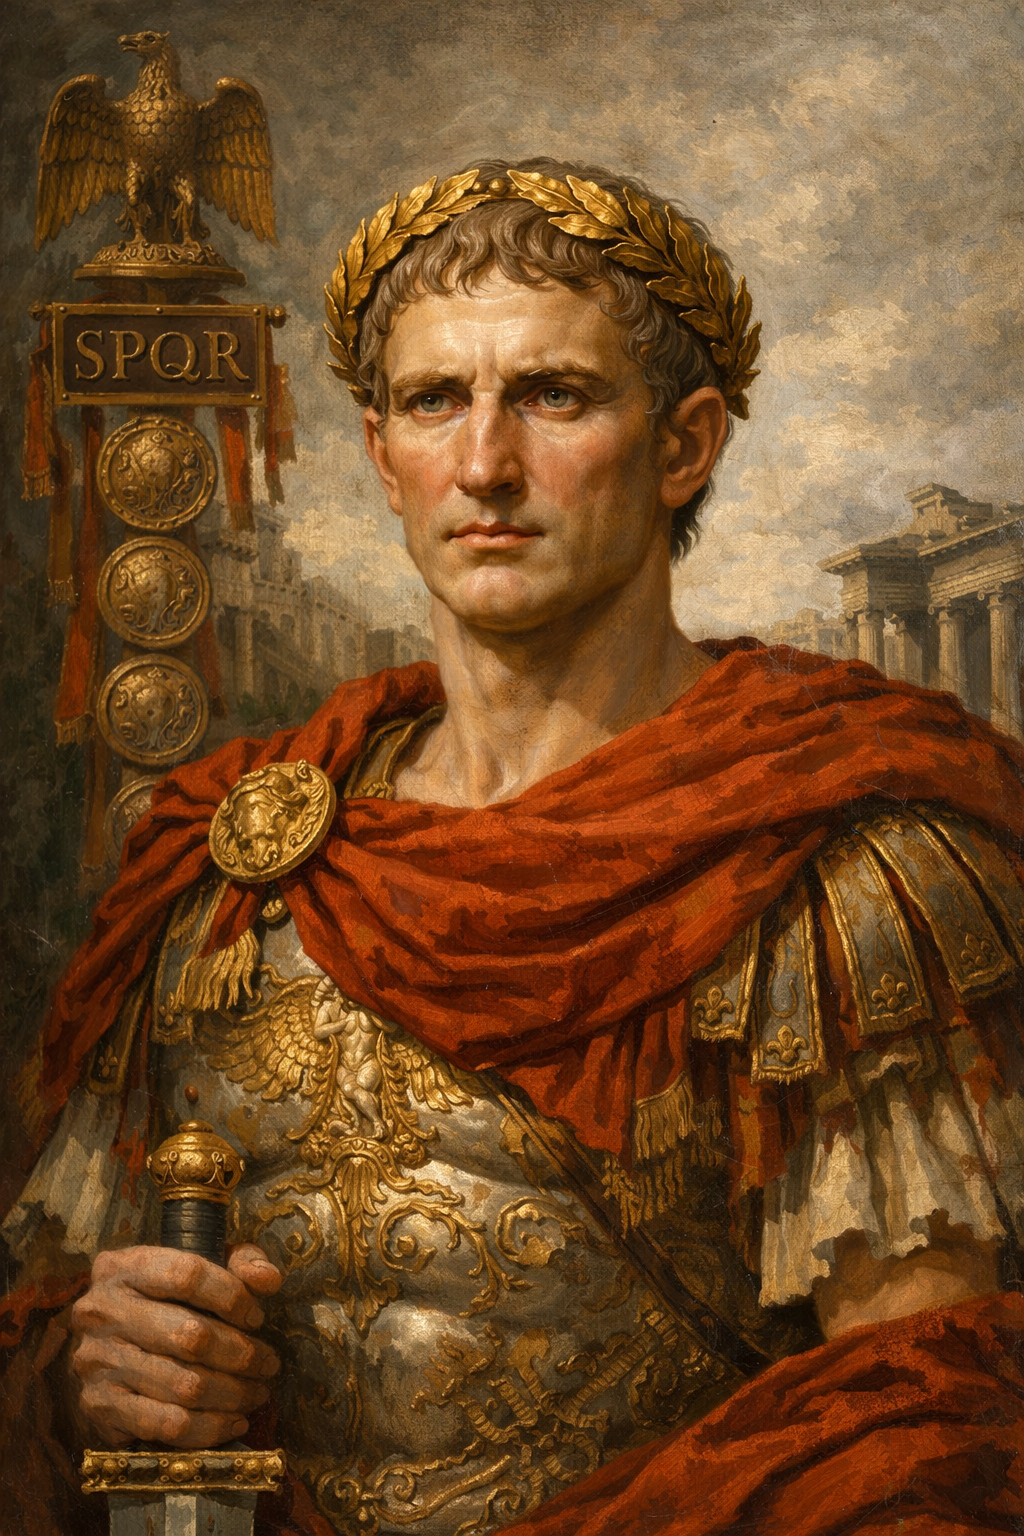
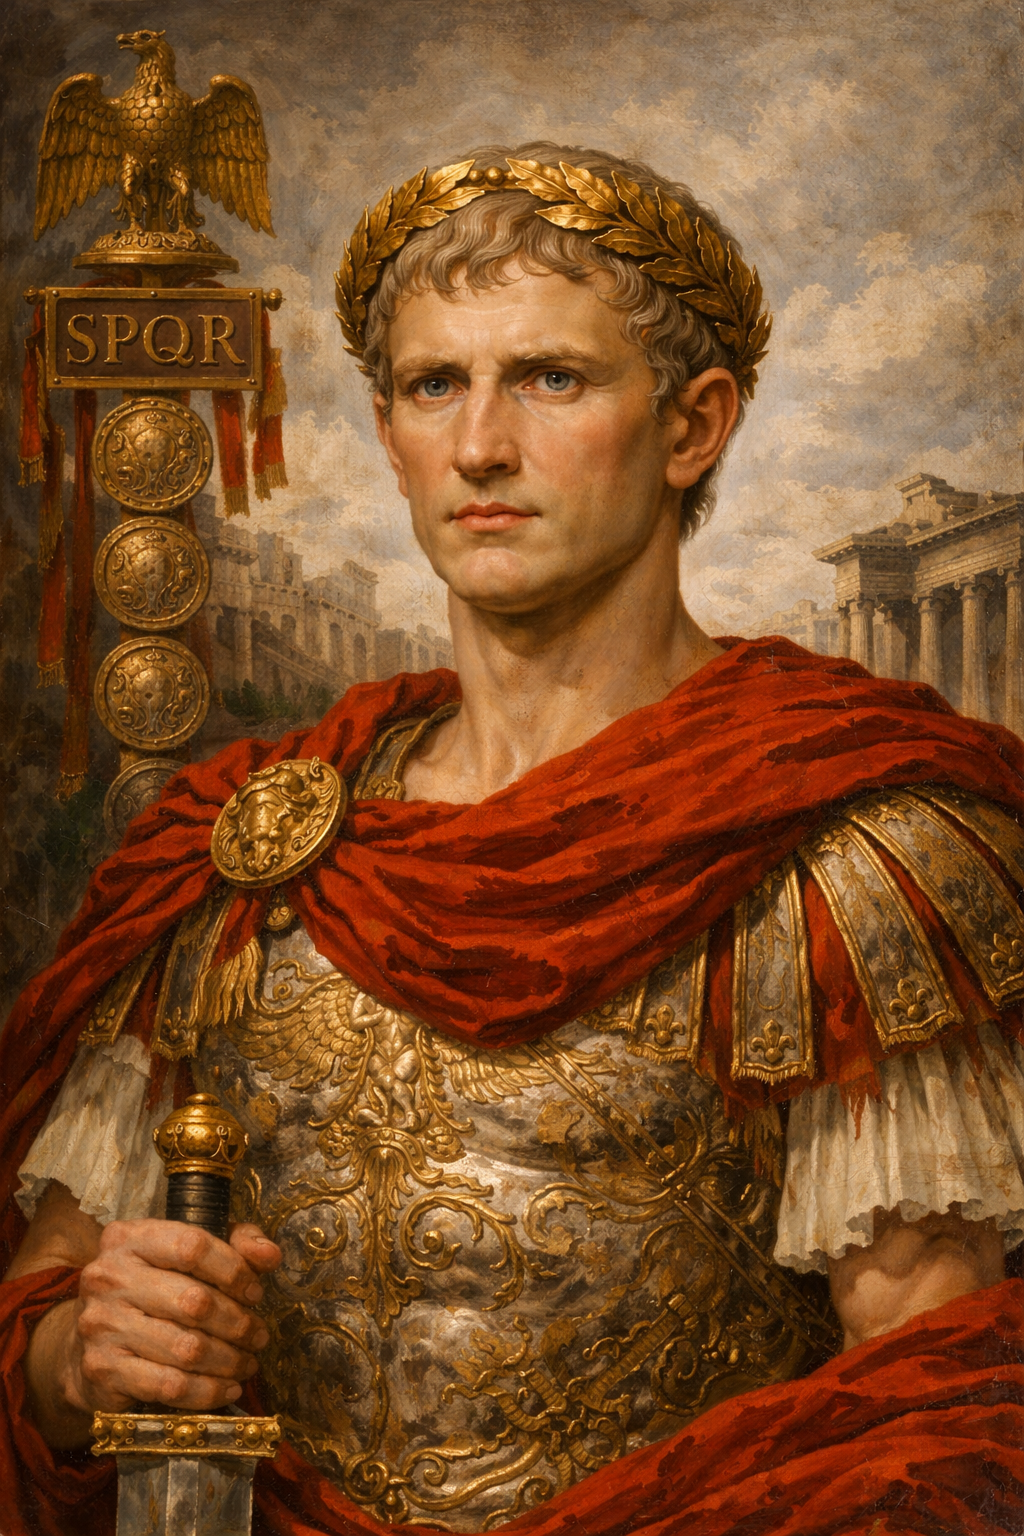
modifiche finali
divisione dei pulsanti carica partita SER e CSV, sostituzione di alcune immagini perchè troppo uguali

diff --git a/Progetto_GDR-main/Progetto_GDR-main/ImperiumSurvival/src/imperiumsurvival/SchermataIniziale.java b/Progetto_GDR-main/Progetto_GDR-main/ImperiumSurvival/src/imperiumsurvival/SchermataIniziale.java
@@ -39,13 +39,17 @@ public class SchermataIniziale extends javax.swing.JFrame {
         
         
         
-        btn_caricaPartita.setOpaque(false);
-        btn_caricaPartita.setContentAreaFilled(false);
-        btn_caricaPartita.setBorderPainted(false);
+        btn_caricaPartitaSER.setOpaque(false);
+        btn_caricaPartitaSER.setContentAreaFilled(false);
+        btn_caricaPartitaSER.setBorderPainted(false);
         
         btn_creaPartita.setOpaque(false);
         btn_creaPartita.setContentAreaFilled(false);
         btn_creaPartita.setBorderPainted(false);
+        
+        btn_caricaPartitaCSV.setOpaque(false);
+        btn_caricaPartitaCSV.setContentAreaFilled(false);
+        btn_caricaPartitaCSV.setBorderPainted(false);
     }
 
     /**
@@ -57,24 +61,27 @@ public class SchermataIniziale extends javax.swing.JFrame {
     // <editor-fold defaultstate="collapsed" desc="Generated Code">//GEN-BEGIN:initComponents
     private void initComponents() {
 
-        btn_caricaPartita = new javax.swing.JButton();
+        btn_caricaPartitaSER = new javax.swing.JButton();
         btn_creaPartita = new javax.swing.JButton();
+        btn_caricaPartitaCSV = new javax.swing.JButton();
         jLabel1 = new javax.swing.JLabel();
 
         setDefaultCloseOperation(javax.swing.WindowConstants.EXIT_ON_CLOSE);
         getContentPane().setLayout(null);
 
-        btn_caricaPartita.setFont(new java.awt.Font("Trajan Pro", 0, 24)); // NOI18N
-        btn_caricaPartita.setText("CARICA PARTITA");
-        btn_caricaPartita.addActionListener(new java.awt.event.ActionListener() {
+        btn_caricaPartitaSER.setFont(new java.awt.Font("Trajan Pro", 0, 24)); // NOI18N
+        btn_caricaPartitaSER.setForeground(new java.awt.Color(255, 255, 255));
+        btn_caricaPartitaSER.setText("CARICA PARTITA SER");
+        btn_caricaPartitaSER.addActionListener(new java.awt.event.ActionListener() {
             public void actionPerformed(java.awt.event.ActionEvent evt) {
-                btn_caricaPartitaActionPerformed(evt);
+                btn_caricaPartitaSERActionPerformed(evt);
             }
         });
-        getContentPane().add(btn_caricaPartita);
-        btn_caricaPartita.setBounds(440, 380, 260, 70);
+        getContentPane().add(btn_caricaPartitaSER);
+        btn_caricaPartitaSER.setBounds(410, 390, 320, 70);
 
         btn_creaPartita.setFont(new java.awt.Font("Trajan Pro", 0, 24)); // NOI18N
+        btn_creaPartita.setForeground(new java.awt.Color(255, 255, 255));
         btn_creaPartita.setText("NUOVA PARTITA");
         btn_creaPartita.addActionListener(new java.awt.event.ActionListener() {
             public void actionPerformed(java.awt.event.ActionEvent evt) {
@@ -82,7 +89,18 @@ public class SchermataIniziale extends javax.swing.JFrame {
             }
         });
         getContentPane().add(btn_creaPartita);
-        btn_creaPartita.setBounds(440, 290, 260, 70);
+        btn_creaPartita.setBounds(410, 290, 320, 70);
+
+        btn_caricaPartitaCSV.setFont(new java.awt.Font("Trajan Pro", 0, 24)); // NOI18N
+        btn_caricaPartitaCSV.setForeground(new java.awt.Color(255, 255, 255));
+        btn_caricaPartitaCSV.setText("CARICA PARTITA CSV");
+        btn_caricaPartitaCSV.addActionListener(new java.awt.event.ActionListener() {
+            public void actionPerformed(java.awt.event.ActionEvent evt) {
+                btn_caricaPartitaCSVActionPerformed(evt);
+            }
+        });
+        getContentPane().add(btn_caricaPartitaCSV);
+        btn_caricaPartitaCSV.setBounds(410, 490, 320, 70);
 
         jLabel1.setIcon(new javax.swing.ImageIcon(getClass().getResource("/imperiumsurvival/schermata_iniziale.png"))); // NOI18N
         getContentPane().add(jLabel1);
@@ -91,7 +109,7 @@ public class SchermataIniziale extends javax.swing.JFrame {
         pack();
     }// </editor-fold>//GEN-END:initComponents
 
-    private void btn_caricaPartitaActionPerformed(java.awt.event.ActionEvent evt) {//GEN-FIRST:event_btn_caricaPartitaActionPerformed
+    private void btn_caricaPartitaSERActionPerformed(java.awt.event.ActionEvent evt) {//GEN-FIRST:event_btn_caricaPartitaSERActionPerformed
        FileManager fm = new FileManager();
        GameManager caricato = fm.caricaPartitaSer("salvataggio_imperium");
        
@@ -106,7 +124,7 @@ public class SchermataIniziale extends javax.swing.JFrame {
        else{
            JOptionPane.showMessageDialog(this, "Nessun salvataggio trovato o file corrotto!", "Errore", javax.swing.JOptionPane.ERROR_MESSAGE);
        }
-    }//GEN-LAST:event_btn_caricaPartitaActionPerformed
+    }//GEN-LAST:event_btn_caricaPartitaSERActionPerformed
 
     private void btn_creaPartitaActionPerformed(java.awt.event.ActionEvent evt) {//GEN-FIRST:event_btn_creaPartitaActionPerformed
          this.dispose();
@@ -114,6 +132,23 @@ public class SchermataIniziale extends javax.swing.JFrame {
         ScegliPersonaggio sp = new ScegliPersonaggio();
         sp.setVisible(true);
     }//GEN-LAST:event_btn_creaPartitaActionPerformed
+
+    private void btn_caricaPartitaCSVActionPerformed(java.awt.event.ActionEvent evt) {//GEN-FIRST:event_btn_caricaPartitaCSVActionPerformed
+        FileManager fm = new FileManager();
+       GameManager caricato = fm.caricaPartitaCSV("salvataggio_imperium");
+       
+       if(caricato != null){
+           this.dispose();
+           CampoDaGioco cg = new CampoDaGioco();
+           cg.setGameManager(caricato);
+           cg.setVisible(true);
+           
+           JOptionPane.showMessageDialog(cg, "Bentornato, imperatore! Partita caricata.");
+       }
+       else{
+           JOptionPane.showMessageDialog(this, "Nessun salvataggio trovato o file corrotto!", "Errore", javax.swing.JOptionPane.ERROR_MESSAGE);
+       }
+    }//GEN-LAST:event_btn_caricaPartitaCSVActionPerformed
 
     /**
      * @param args the command line arguments
@@ -141,7 +176,8 @@ public class SchermataIniziale extends javax.swing.JFrame {
     }
 
     // Variables declaration - do not modify//GEN-BEGIN:variables
-    private javax.swing.JButton btn_caricaPartita;
+    private javax.swing.JButton btn_caricaPartitaCSV;
+    private javax.swing.JButton btn_caricaPartitaSER;
     private javax.swing.JButton btn_creaPartita;
     private javax.swing.JLabel jLabel1;
     // End of variables declaration//GEN-END:variables

diff --git a/Progetto_GDR-main/Progetto_GDR-main/ImperiumSurvival/src/imperiumsurvival/FileManager.java b/Progetto_GDR-main/Progetto_GDR-main/ImperiumSurvival/src/imperiumsurvival/FileManager.java
@@ -54,9 +54,9 @@ public class FileManager {
             System.out.println("Errore salvataggio CSV");
         }
     }
-    public Imperatore caricaPartitaCSV(String nomeFile) {
+    public GameManager caricaPartitaCSV(String nomeFile) {
         try (BufferedReader br = new BufferedReader(new FileReader(nomeFile + ".csv"))) {
-            br.readLine();
+            br.readLine(); // Salta l'intestazione
             String riga = br.readLine();
 
             if (riga != null) {
@@ -66,36 +66,36 @@ public class FileManager {
                 int malcontento = Integer.parseInt(dati[2]);
                 int dissenso = Integer.parseInt(dati[3]);
                 int protezione = Integer.parseInt(dati[4]);
-                int turno = Integer.parseInt(dati[5]);
-                boolean usata = Boolean.parseBoolean(dati[6]); 
+                int turnoSalvato = Integer.parseInt(dati[5]);
+                boolean usata = Boolean.parseBoolean(dati[6]);
                 int monete = Integer.parseInt(dati[7]);
-                
-                Imperatore caricato = null;
-                caricato.setAbilitaUsata(usata);
 
+                Imperatore imp = null;
                 if (nome.equals("Augusto")) {
-                    caricato = new Augusto();
+                    imp = new Augusto();
                 } else if (nome.equals("Giulio Cesare")) {
-                    caricato = new GiulioCesare();
+                    imp = new GiulioCesare();
                 } else if (nome.equals("Nerone")) {
-                    caricato = new Nerone();
+                    imp = new Nerone();
                 } else if (nome.equals("Marco Aurelio")) {
-                    caricato = new MarcoAurelio();
+                    imp = new MarcoAurelio();
                 }
 
-                if (caricato != null) {
-                    caricato.salute = salute;
-                    caricato.dissenso = dissenso;
-                    caricato.malcontento = malcontento;
-                    caricato.turniProtezione = protezione;
-                    caricato.setAbilitaUsata(usata);
-                    caricato.setMonete(monete);
+                if (imp != null) {
+                    imp.salute = salute;
+                    imp.dissenso = dissenso;
+                    imp.malcontento = malcontento;
+                    imp.turniProtezione = protezione;
+                    imp.setAbilitaUsata(usata);
+                    imp.setMonete(monete);
+                    GameManager gm = new GameManager(imp);
+                    gm.setTurno(turnoSalvato);
+
+                    return gm;
                 }
-                return caricato;
             }
-
         } catch (IOException | NumberFormatException e) {
-            System.out.println("Errore nel caricamento CSV");
+            System.out.println("Errore nel caricamento CSV: " + e.getMessage());
         }
         return null;
     }
